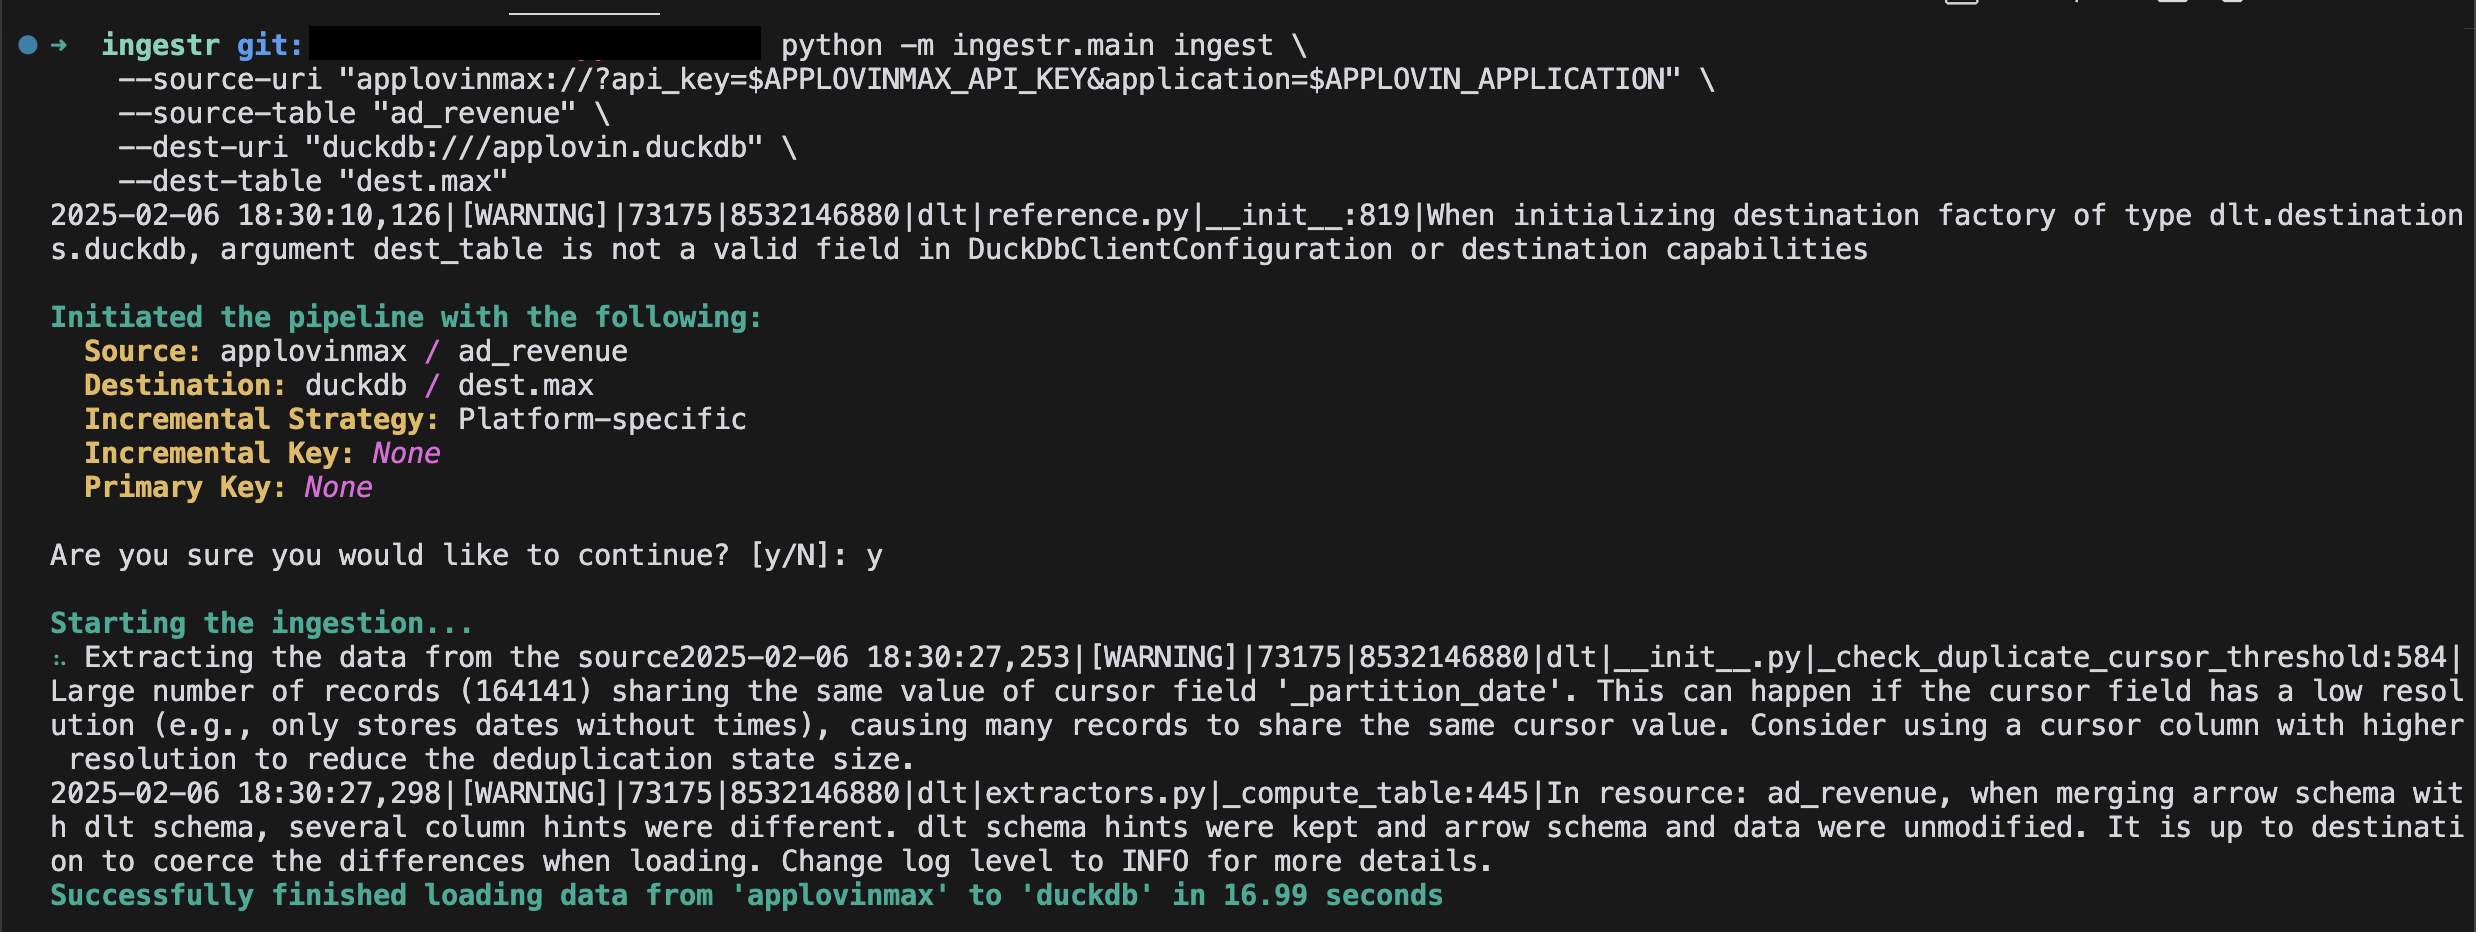
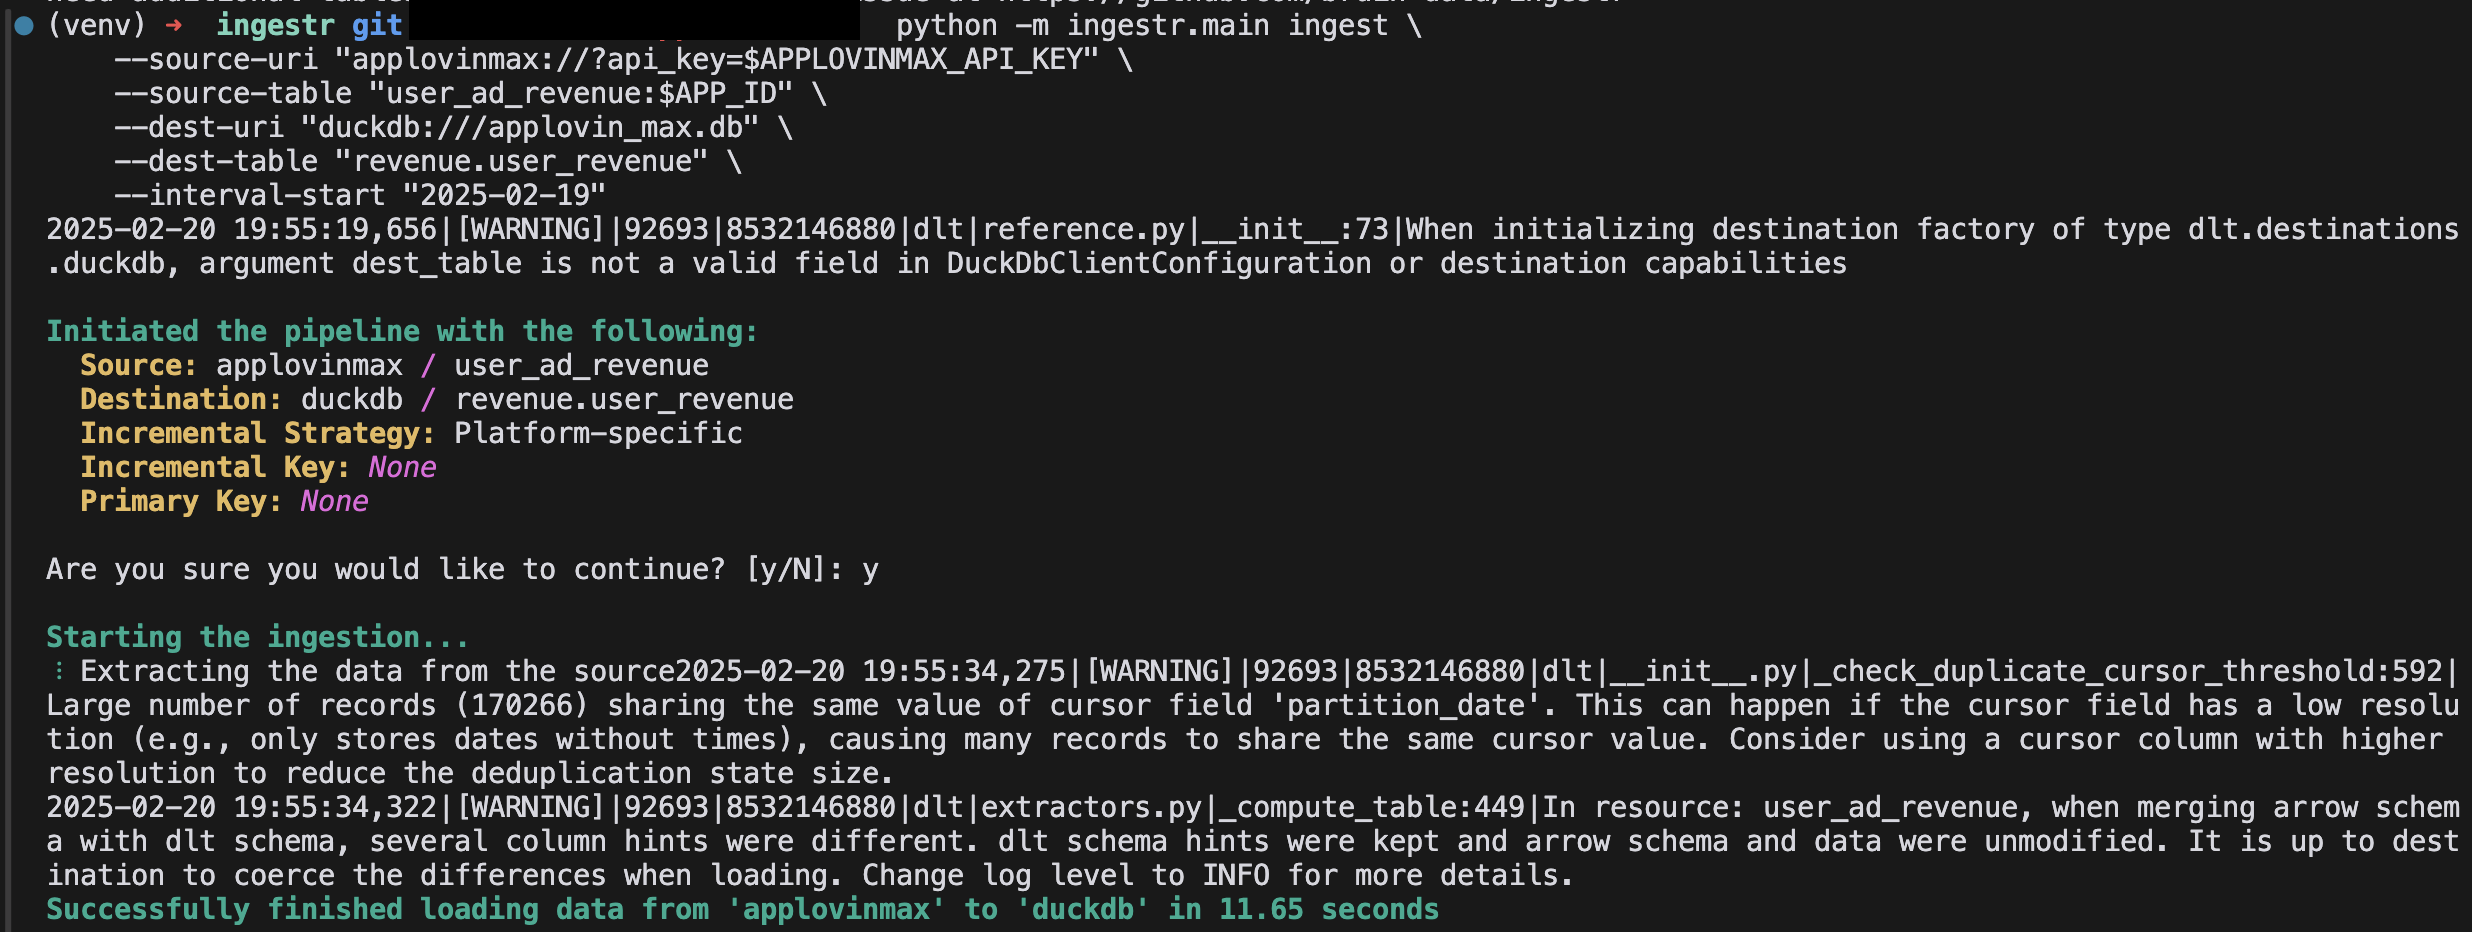
applovin max: update doc

Changed region(s): [[0.0, 0.0, 1.0, 1.0]]

diff --git a/docs/supported-sources/applovin_max.md b/docs/supported-sources/applovin_max.md
@@ -6,12 +6,24 @@
 ## URI Format
 The URI format for Applovin Max is as follows:
 ```
-applovinmax://?api_key=<your_api_key>&application=<application_name>
+applovinmax://?api_key=<your_api_key>
 ```
 
 URI Parameters:
 - `api_key`: It is the `report key` which is used for authenticating the request.
-- `application`: The application package name (for Android and Fire OS) or bundle ID (for iOS).
+
+## Source Table Format
+The source table format should be specified as:
+```
+<table_name>:<application_ids>
+```
+
+Example:
+```
+user_ad_revenue:com.example.app1,com.example.app2
+```
+
+- `application_id` should be the application package name (for Android and Fire OS) or bundle ID (for iOS).
 
 ## Setting up Applovin Integration
 
@@ -19,12 +31,12 @@ URI Parameters:
 You can generate a report key from your [AppLovin dashboard](https://developers.applovin.com/en/max/max-dashboard/account/account-info/#keys).
 
 ### Example:
-To retrieve `ad revenue` data for an application `com.example.app` with api key `key_123`, and to store it in a DuckDB database, use the following command:
+To retrieve `user ad revenue` data for an application `com.example.app` with api key `key_123`, and to store it in a DuckDB database, use the following command:
 
 ```sh
 ingestr ingest \
-    --source-uri "applovinmax://?api_key=key_123&application=com.example.app" \
-    --source-table "ad_revenue" \
+    --source-uri "applovinmax://?api_key=key_123" \
+    --source-table "user_ad_revenue:com.example.app" \
     --dest-uri "duckdb:///applovin_max.db"  \
     --dest-table "dest.ad_revenue"
 ```
@@ -33,4 +45,4 @@ By default, `ingestr` retrieves data for the last 30 days. For a custom date ran
 <img alt="applovin_max_img" src="../media/applovin_max.png"/>
 
 ## Table
-[ad_revenue](https://developers.applovin.com/en/max/reporting-apis/user-level-ad-revenue-api/): Provides daily metrics from the user-level ad revenue API.User-level revenue data is available eight hours after UTC day end. So, for example, data for UTC 2025-01-01 is available on UTC 2025-01-02 after 08:00.
+[user_ad_revenue](https://developers.applovin.com/en/max/reporting-apis/user-level-ad-revenue-api/): Provides daily metrics from the user level ad revenue API.User-level revenue data is available eight hours after UTC day end. So, for example, data for UTC 2025-01-01 is available on UTC 2025-01-02 after 08:00.